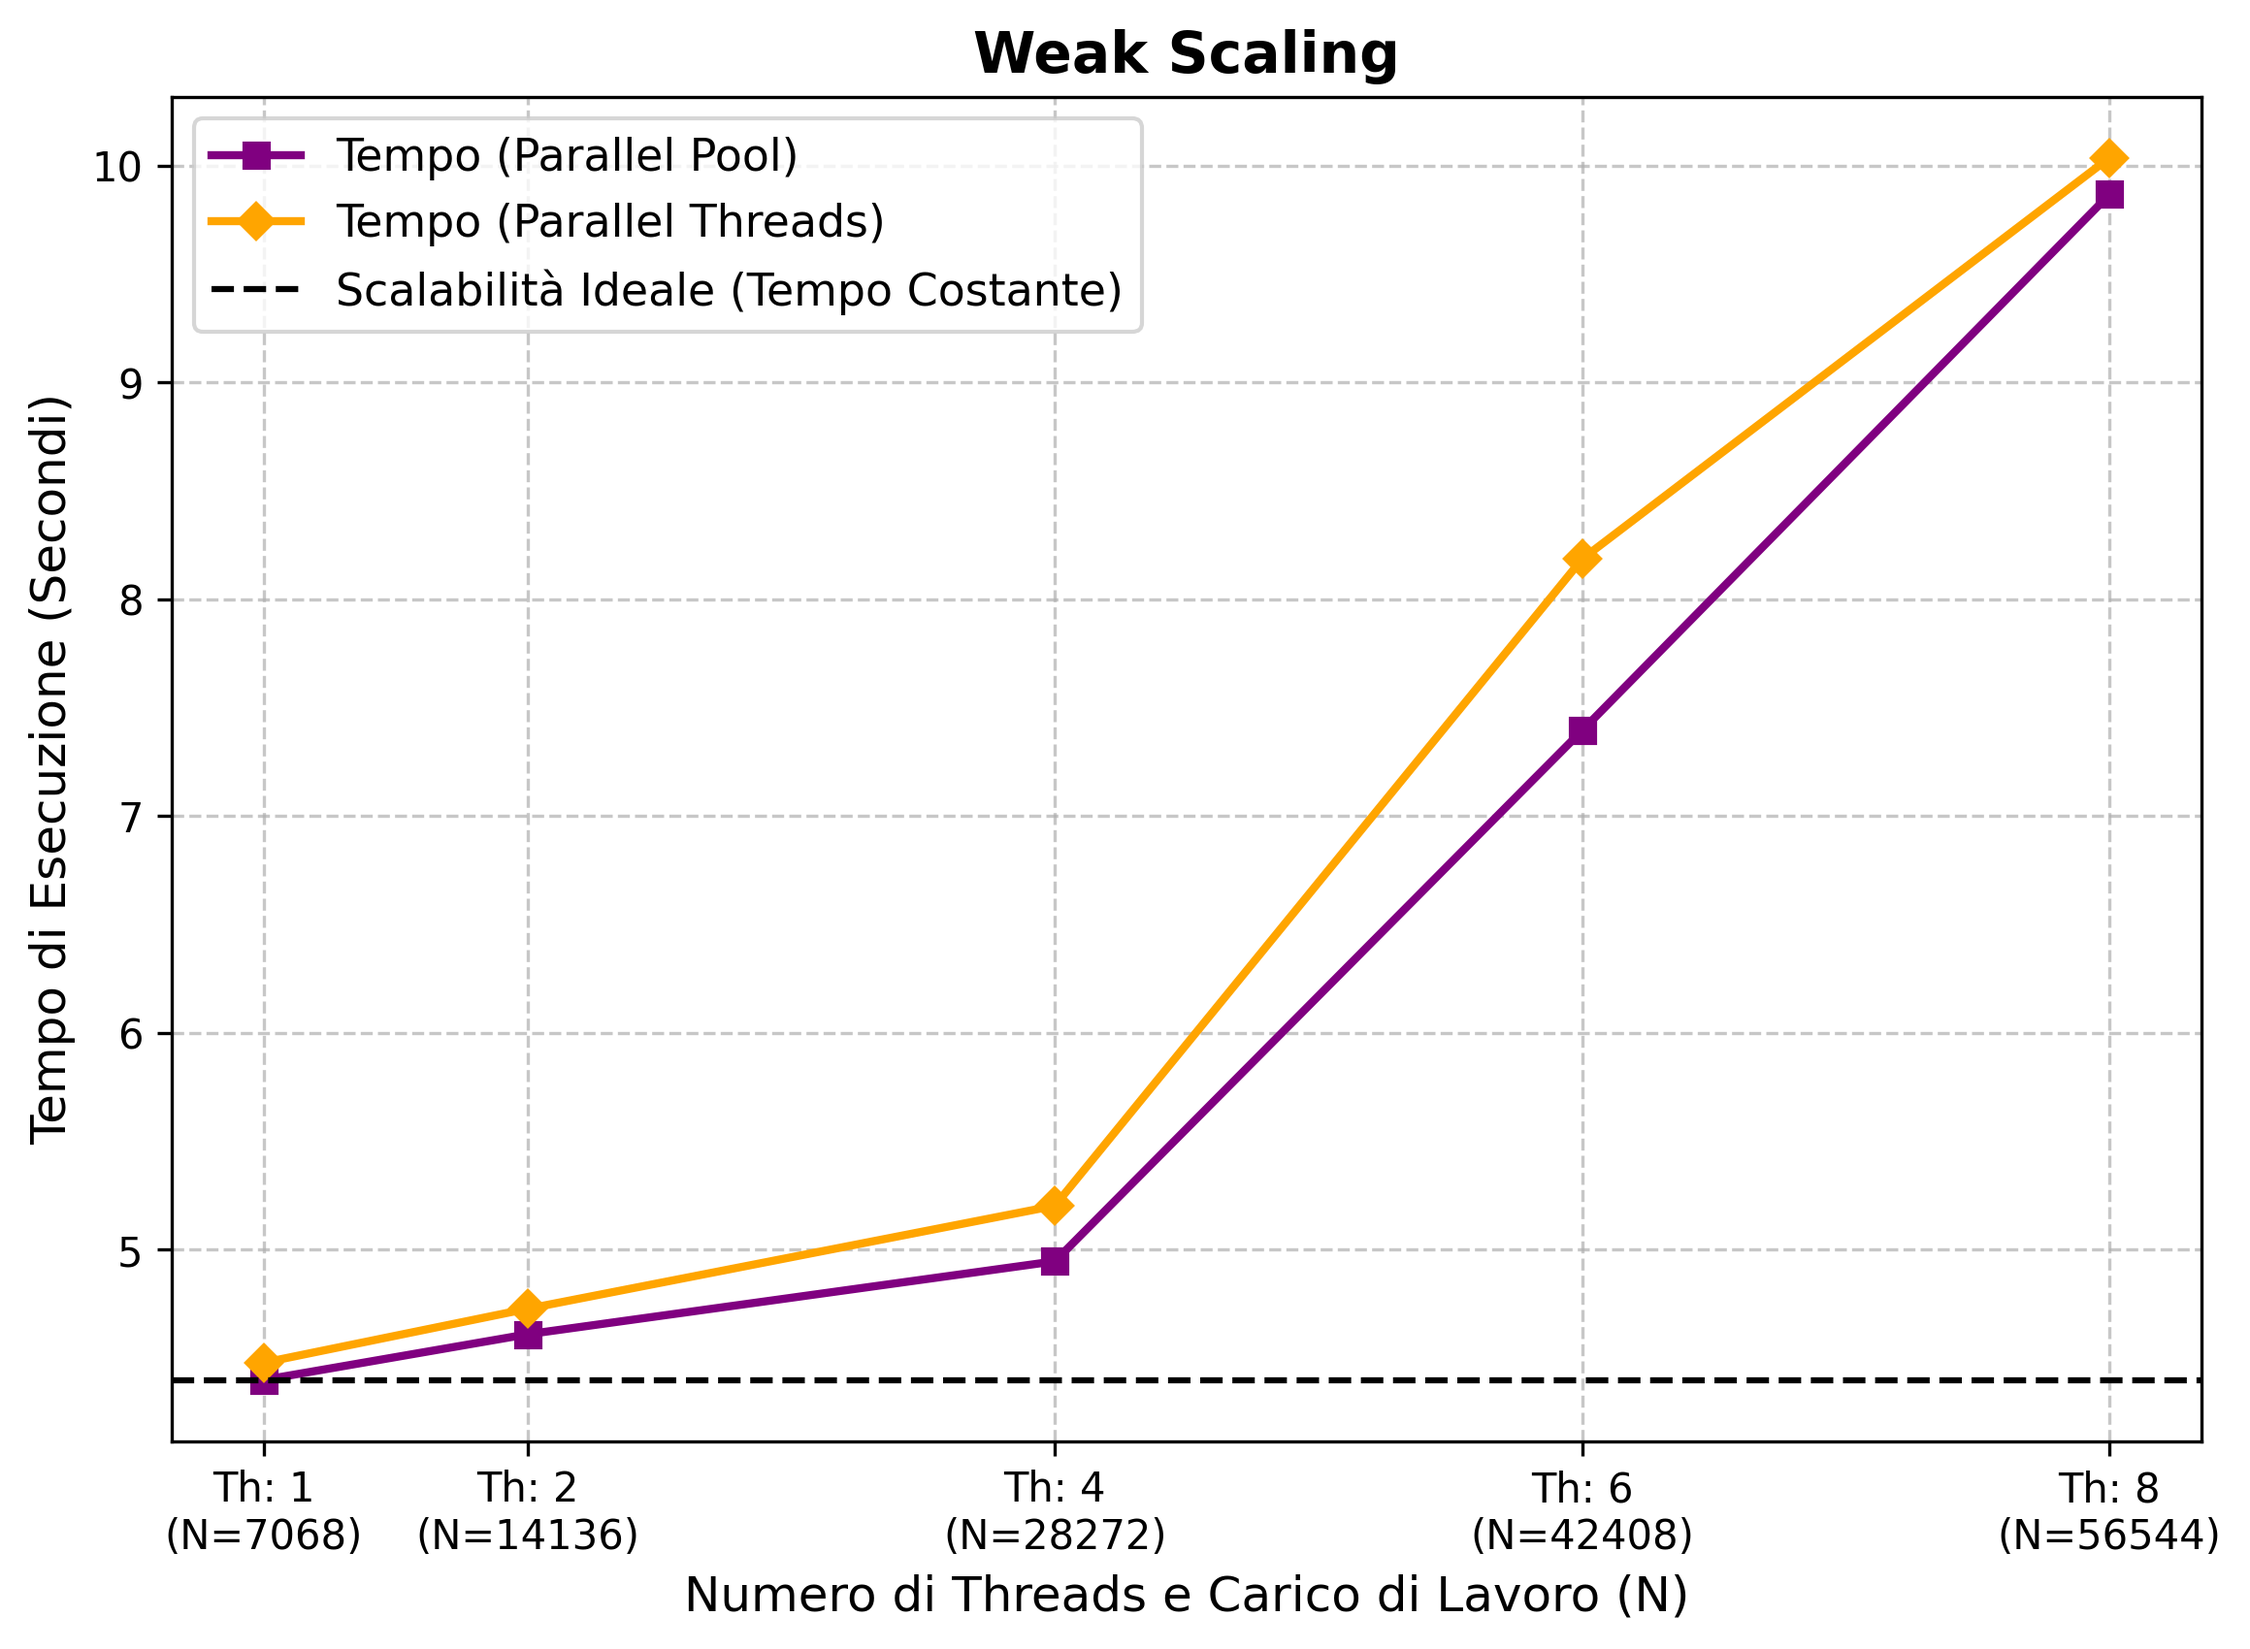
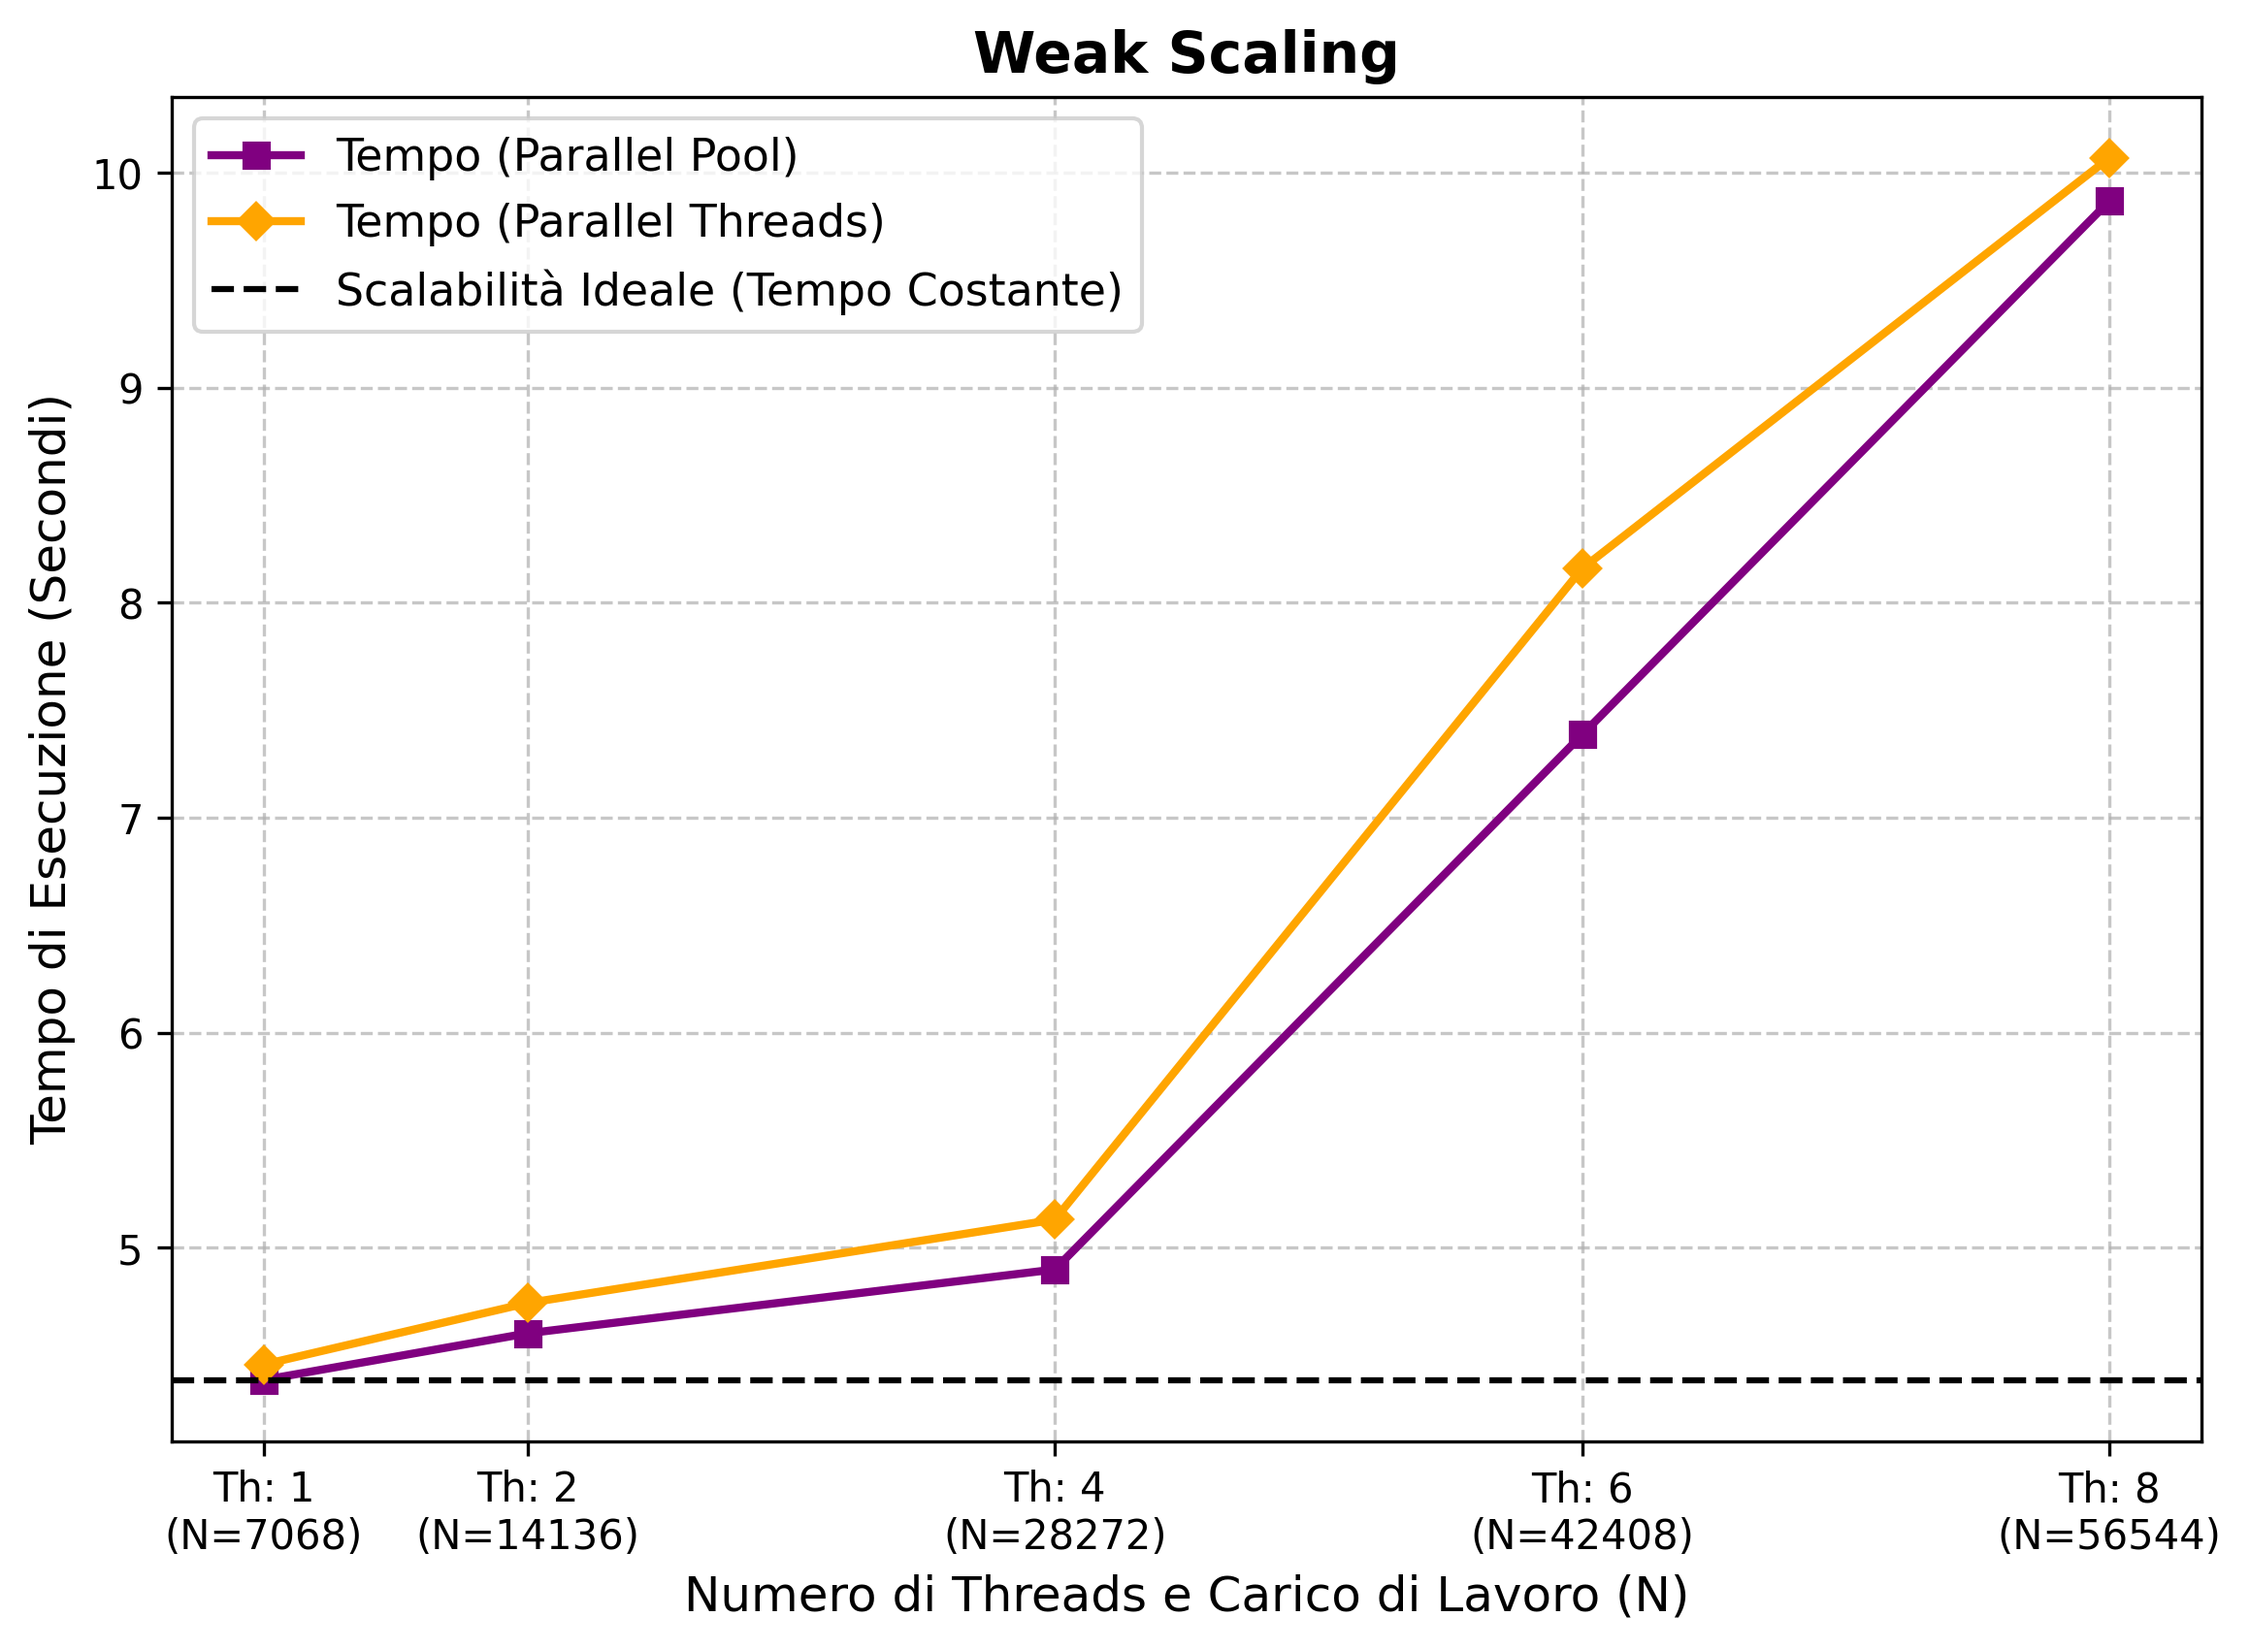
correzione refuso

diff --git a/src/main.py b/src/main.py
@@ -43,10 +43,10 @@ def benchmark(func, runs, *args, **kwargs):
         computation_times.append(elapsed)
         print(f">> {elapsed}")
 
-    median = statistics.median(computation_times) if runs > 1 else 0
+    mean = statistics.mean(computation_times) if runs > 1 else 0
     dev_standard = statistics.stdev(computation_times) if runs > 1 else 0
 
-    return median, dev_standard, result
+    return mean, dev_standard, result
 
 
 def write_csv(file_path, data):
@@ -58,13 +58,13 @@ def write_csv(file_path, data):
 def run_sequential(targets, runs, dump_data):
     print("\n\nImplementazione Sequenziale:")
 
-    median, dev_standard, passwords_trovate = benchmark(
+    mean, dev_standard, passwords_trovate = benchmark(
         p.decrypt_passwords, runs, targets
     )
 
-    print(f"Tempo medio: {median} Deviazione standard: {dev_standard}\nPassword trovata: {passwords_trovate}")
+    print(f"Tempo medio: {mean} Deviazione standard: {dev_standard}\nPassword trovata: {passwords_trovate}")
 
-    dump_data.append(['Sequenziale', '-', '-', median, dev_standard])
+    dump_data.append(['Sequenziale', '-', '-', mean, dev_standard])
 
 
 def run_parallel(targets, runs, dump_data, decrypt_password_par, info):
@@ -78,7 +78,7 @@ def run_parallel(targets, runs, dump_data, decrypt_password_par, info):
 
         print(f"\nnum. threads: {thread} chunk size: {chunk_size}")
 
-        median, dev_standard, passwords_trovate = benchmark(
+        mean, dev_standard, passwords_trovate = benchmark(
             decrypt_password_par,
             runs,
             targets,
@@ -86,9 +86,9 @@ def run_parallel(targets, runs, dump_data, decrypt_password_par, info):
             chunk_size=chunk_size
         )
 
-        print(f"Tempo medio: {median} Deviazione standard: {dev_standard}\nPassword trovata: {passwords_trovate}")
+        print(f"Tempo medio: {mean} Deviazione standard: {dev_standard}\nPassword trovata: {passwords_trovate}")
 
-        dump_data.append([info, thread, chunk_size, median, dev_standard])
+        dump_data.append([info, thread, chunk_size, mean, dev_standard])
 
 
 def run_chunk_size_analysis(targets, runs, dump_data, decrypt_password_par, info):
@@ -101,7 +101,7 @@ def run_chunk_size_analysis(targets, runs, dump_data, decrypt_password_par, info
     for chunk_size in chunks_size:
         print(f"\nnum. threads: {thread} chunk size: {chunk_size}")
 
-        median, dev_standard, passwords_trovate = benchmark(
+        mean, dev_standard, passwords_trovate = benchmark(
             decrypt_password_par,
             runs,
             targets,
@@ -109,9 +109,9 @@ def run_chunk_size_analysis(targets, runs, dump_data, decrypt_password_par, info
             chunk_size=chunk_size
         )
 
-        print(f"Tempo medio: {median} Deviazione standard: {dev_standard}\nPassword trovata: {passwords_trovate}")
+        print(f"Tempo medio: {mean} Deviazione standard: {dev_standard}\nPassword trovata: {passwords_trovate}")
 
-        dump_data.append([info, thread, chunk_size, median, dev_standard])
+        dump_data.append([info, thread, chunk_size, mean, dev_standard])
 
 def run_weak_scaling(targets, runs, dump_data, decrypt_password_par, info):
     print(f"\n\n{info}")
@@ -131,7 +131,7 @@ def run_weak_scaling(targets, runs, dump_data, decrypt_password_par, info):
 
         print(f"Threads: {thread} Data Size: {c.N} Time: {c.START_YEAR}-{c.END_YEAR}")
 
-        median, dev_standard, passwords_trovate = benchmark(
+        mean, dev_standard, passwords_trovate = benchmark(
             decrypt_password_par,
             runs,
             targets,
@@ -139,9 +139,9 @@ def run_weak_scaling(targets, runs, dump_data, decrypt_password_par, info):
             chunk_size=chunk_size
         )
 
-        print(f"Tempo medio: {median} Deviazione standard: {dev_standard}\nPassword trovata: {passwords_trovate}")
+        print(f"Tempo medio: {mean} Deviazione standard: {dev_standard}\nPassword trovata: {passwords_trovate}")
 
-        dump_data.append([info, thread, c.N, chunk_size, median, dev_standard])
+        dump_data.append([info, thread, c.N, chunk_size, mean, dev_standard])
 
 def run_benchmarks():
 
